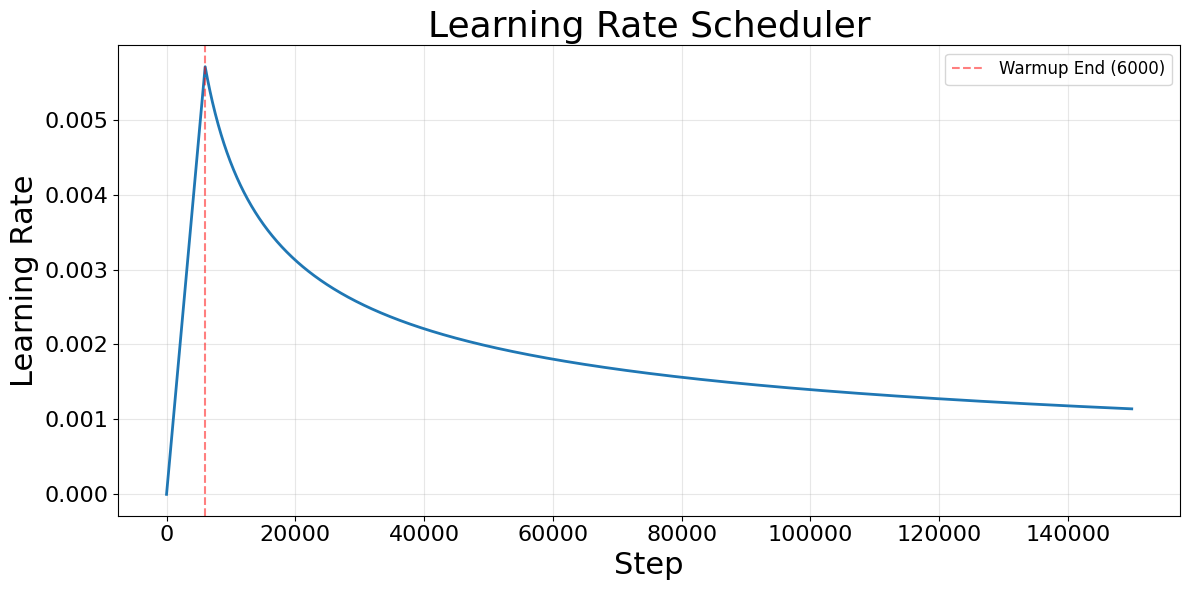
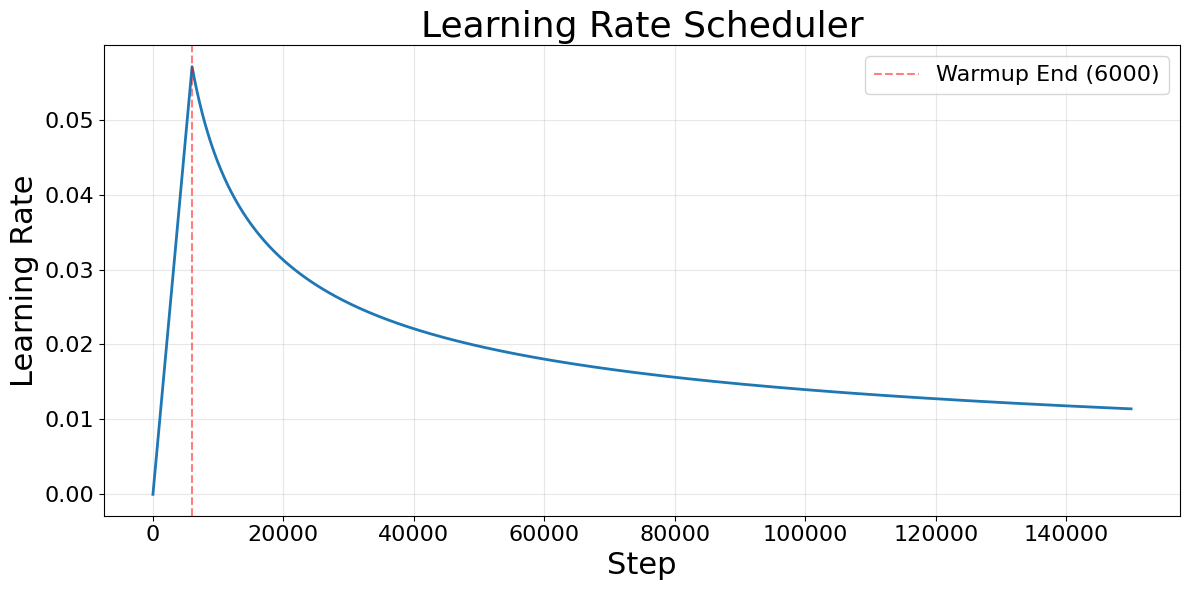
rank

diff --git a/temperature.py b/temperature.py
@@ -310,8 +310,9 @@ def zero_attention_head(model, layer_idx, head_idx, h=8):
 
 def rank_heads_by_temperature(temp_dir="temperature", num_layers=4, h=8):
     """
-    Legge i file HeadTemperature per ogni layer e restituisce 6 DataFrames
-    ordinati per temperatura crescente.
+    Legge i file HeadTemperature per ogni layer e restituisce una lista di liste,
+    una per layer, con gli indici delle head ordinate per temperatura crescente
+    (dalla piu fredda alla piu calda).
     
     Args:
         temp_dir: directory dove sono salvati i file
@@ -319,11 +320,11 @@ def rank_heads_by_temperature(temp_dir="temperature", num_layers=4, h=8):
         h: numero di heads per layer (default 8)
     
     Returns:
-        Dizionario {layer_idx: DataFrame} dove ogni DataFrame ha colonne [layer, head, temperature]
-        ordinato in modo crescente per temperatura
+        Lista di lunghezza num_layers: ogni elemento e una lista di head_idx
+        ordinate da fredda a calda per quel layer
     """
     temp_path = Path(temp_dir)
-    rank_dict = {}
+    rank_list = []
     
     for layer_idx in range(num_layers):
         head_temp_file = temp_path / f'HeadTemperatureCrossAttention_{layer_idx}.csv'
@@ -331,26 +332,24 @@ def rank_heads_by_temperature(temp_dir="temperature", num_layers=4, h=8):
         try:
             # Leggi il file
             df = pd.read_csv(head_temp_file)
-            
-            # Converti in forma "lunga" con colonne [layer, head, temperature]
-            data = []
+
+            # Estrai (head_idx, temperatura) e ordina per temperatura crescente.
+            head_temps = []
             for head_idx in range(h):
                 head_col = f'head_{head_idx}'
                 if head_col in df.columns:
                     temp_value = df[head_col].values[0]
-                    data.append({'layer': layer_idx, 'head': head_idx, 'temperature': temp_value})
-            
-            # Crea il DataFrame e ordinalo per temperature crescente
-            df_layer = pd.DataFrame(data)
-            df_layer = df_layer.sort_values('temperature', ascending=True).reset_index(drop=True)
-            
-            rank_dict[layer_idx] = df_layer
+                    head_temps.append((head_idx, temp_value))
+
+            sorted_heads = [head_idx for head_idx, _ in sorted(head_temps, key=lambda x: x[1])]
+            rank_list.append(sorted_heads)
 
             
         except FileNotFoundError:
             print(f"✗ Errore: file HeadTemperatureCrossAttention_{layer_idx}.csv non trovato")
+            rank_list.append([])
     
-    return rank_dict
+    return rank_list
 
 def plot_head_temperature_evolution(temp_dir="temperature", num_layers=4, h=8, output_file=None):
     """

diff --git a/plot_scheduler.py b/plot_scheduler.py
@@ -11,7 +11,7 @@ total_steps = 150000
 # Formula dello scheduler
 def lr_schedule(step, d_model, warmup_steps):
     step = step + 1  # 1-based indexing
-    return 10*d_model ** -0.5 * min(step ** -0.5, step * warmup_steps ** -1.5)
+    return 100*d_model ** -0.5 * min(step ** -0.5, step * warmup_steps ** -1.5)
 
 # Calcola LR per ogni step
 steps = np.arange(0, total_steps, max(1, total_steps // 2000))  # 2000 punti
@@ -25,7 +25,7 @@ plt.ylabel('Learning Rate', fontsize=22)  # Aumenta la dimensione
 plt.title('Learning Rate Scheduler', fontsize=26)  # Titolo ancora più grande
 plt.grid(True, alpha=0.3)
 plt.axvline(x=warmup_steps, color='r', linestyle='--', alpha=0.5, label=f'Warmup End ({warmup_steps})')
-plt.legend(fontsize=12)  # Legenda più grande
+plt.legend(fontsize=16)  # Legenda più grande
 plt.tick_params(axis='both', labelsize=16)  # Anche i numeri degli assi
 plt.tight_layout()
 plt.savefig('scheduler_plot.png', dpi=100, bbox_inches='tight')
